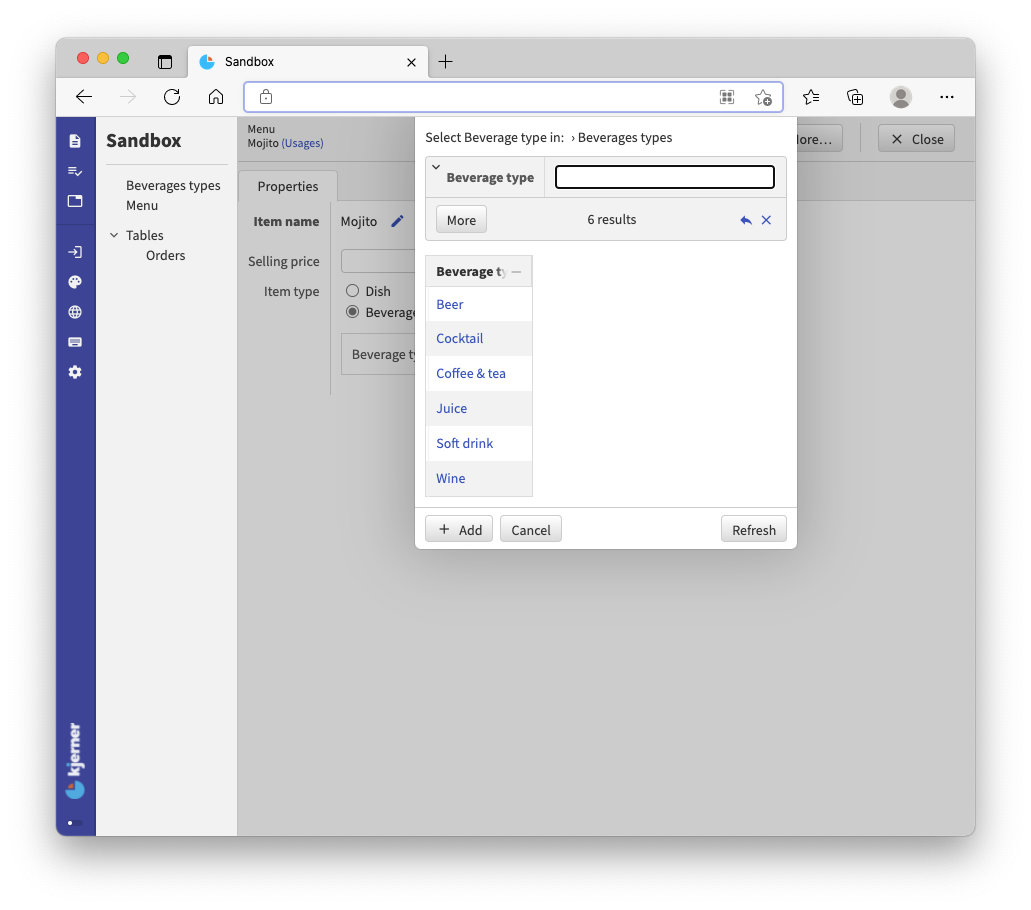
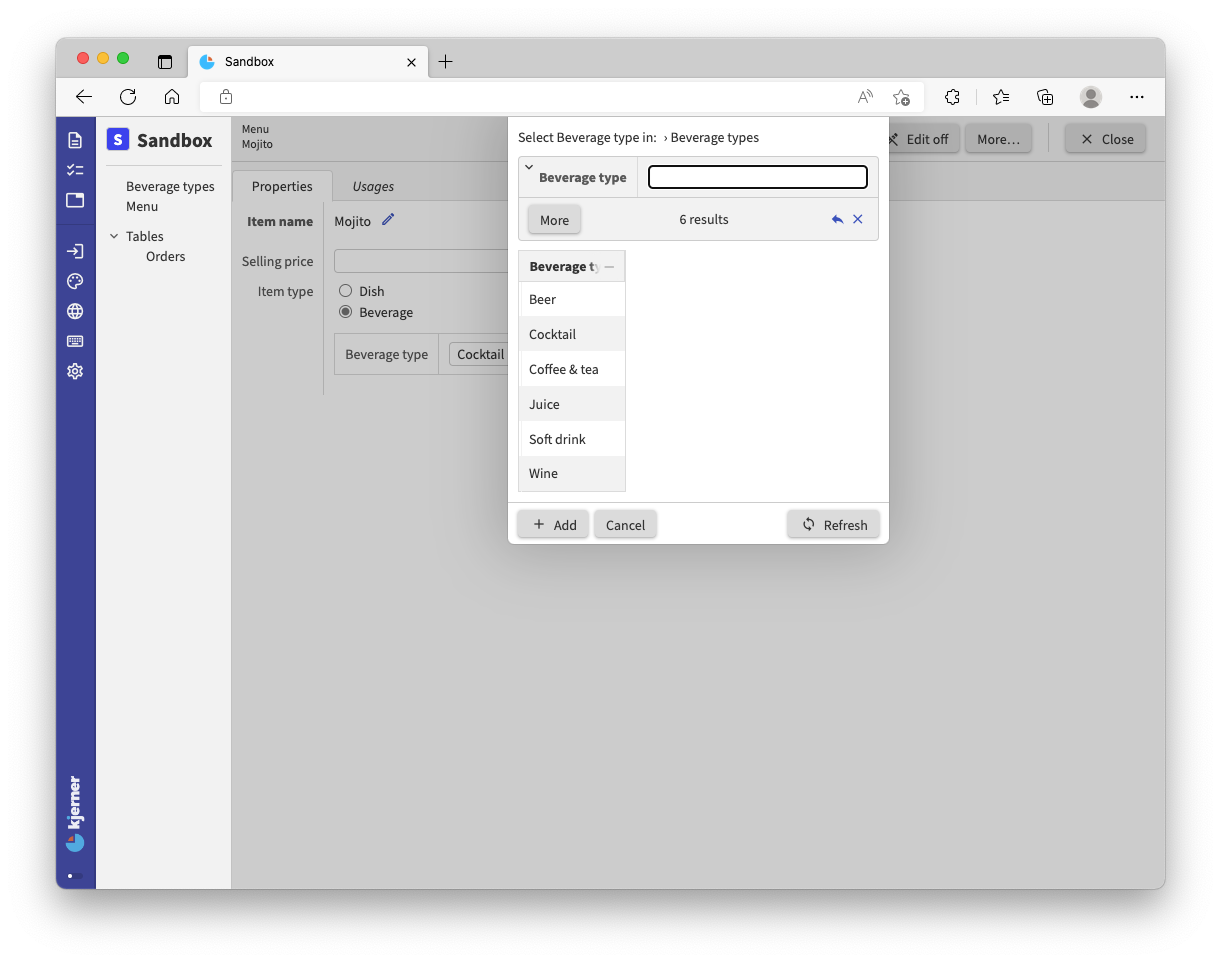
updated images and minor text changes (due to new webclient)

Changed region(s): [[0.031, 0.0308, 0.9622, 0.9231]]

diff --git a/pages/tutorials/model/2022.2/application-tutorial.md b/pages/tutorials/model/2022.2/application-tutorial.md
@@ -322,7 +322,7 @@ In a model you can just count opening curly braces (`{`) above an expression to 
 
 ---
 
-Entering an amount and clicking `Save` gives this result:
+Entering an amount, clicking `Save` and then `Close` gives this result:
 
 ![first order line](./images_model/010.png)
 
@@ -348,7 +348,7 @@ That is quite logical as `Beverage types` should be entered before creating a `M
 By default, expressions in an `application` model point to earlier defined attributes.
 This is important for the guarantees that the language gives you, which we discuss in the [docs](/pages/docs/model/{{ page.version }}/application/grammar.html).
 
-Again, build and check your app, selecting `Beverages types` from the left menu bar:
+Again, build and check your app, selecting `Beverage types` from the left menu bar:
 ![beverages types collection](./images_model/011.png)
 
 Now you are free to add or adjust the `Beverage types` you have in your restaurant while also being able to use them in your menu setup:
